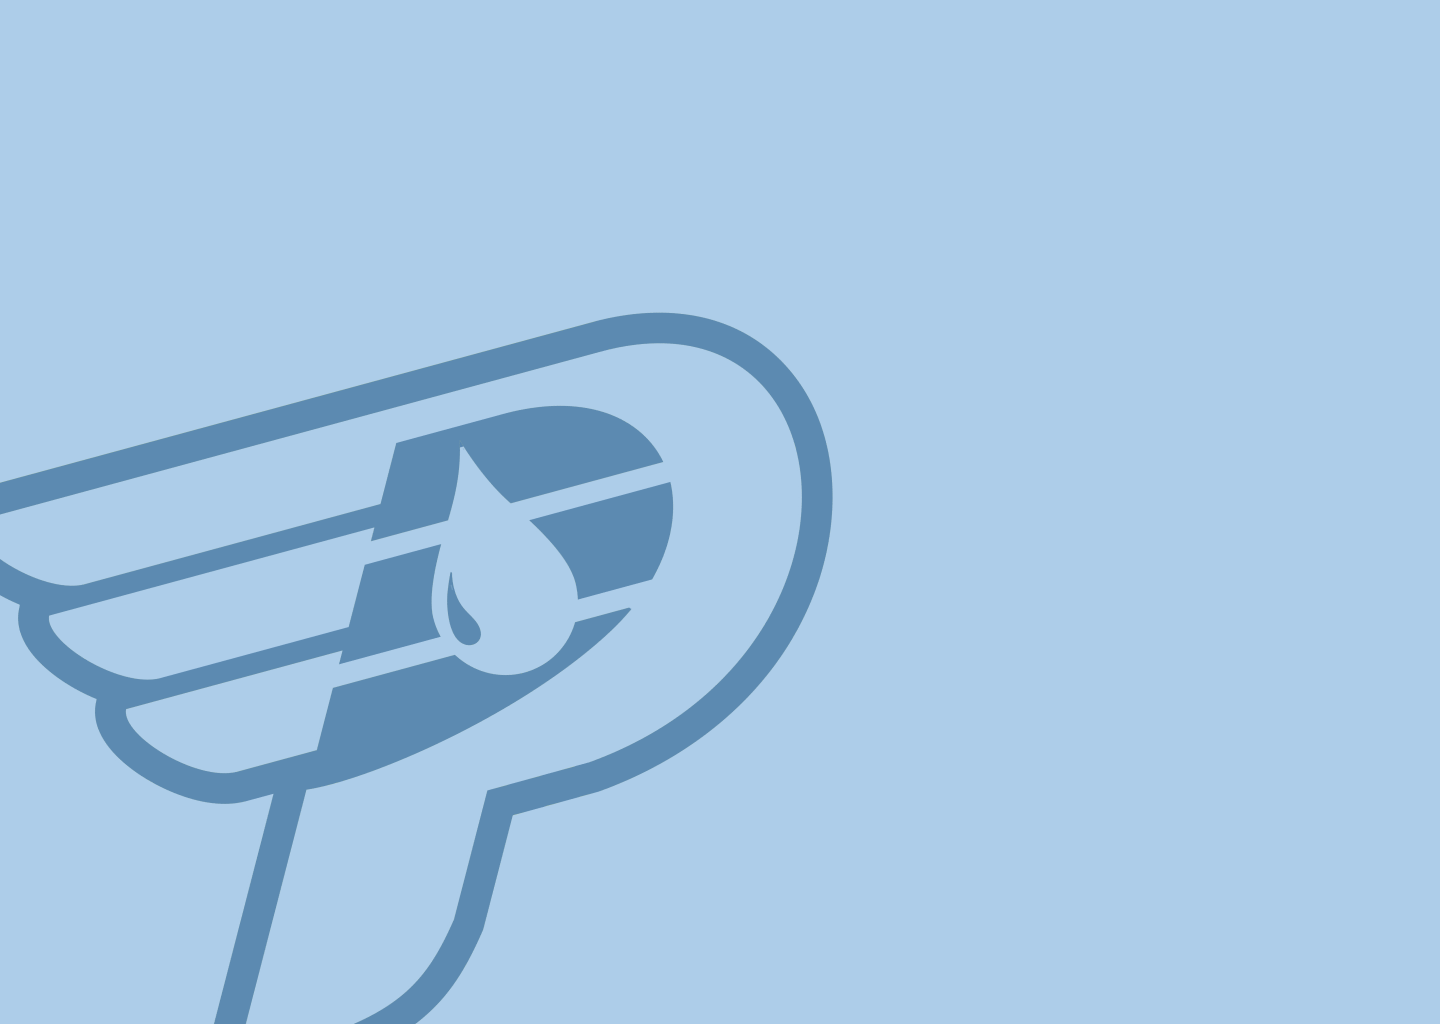
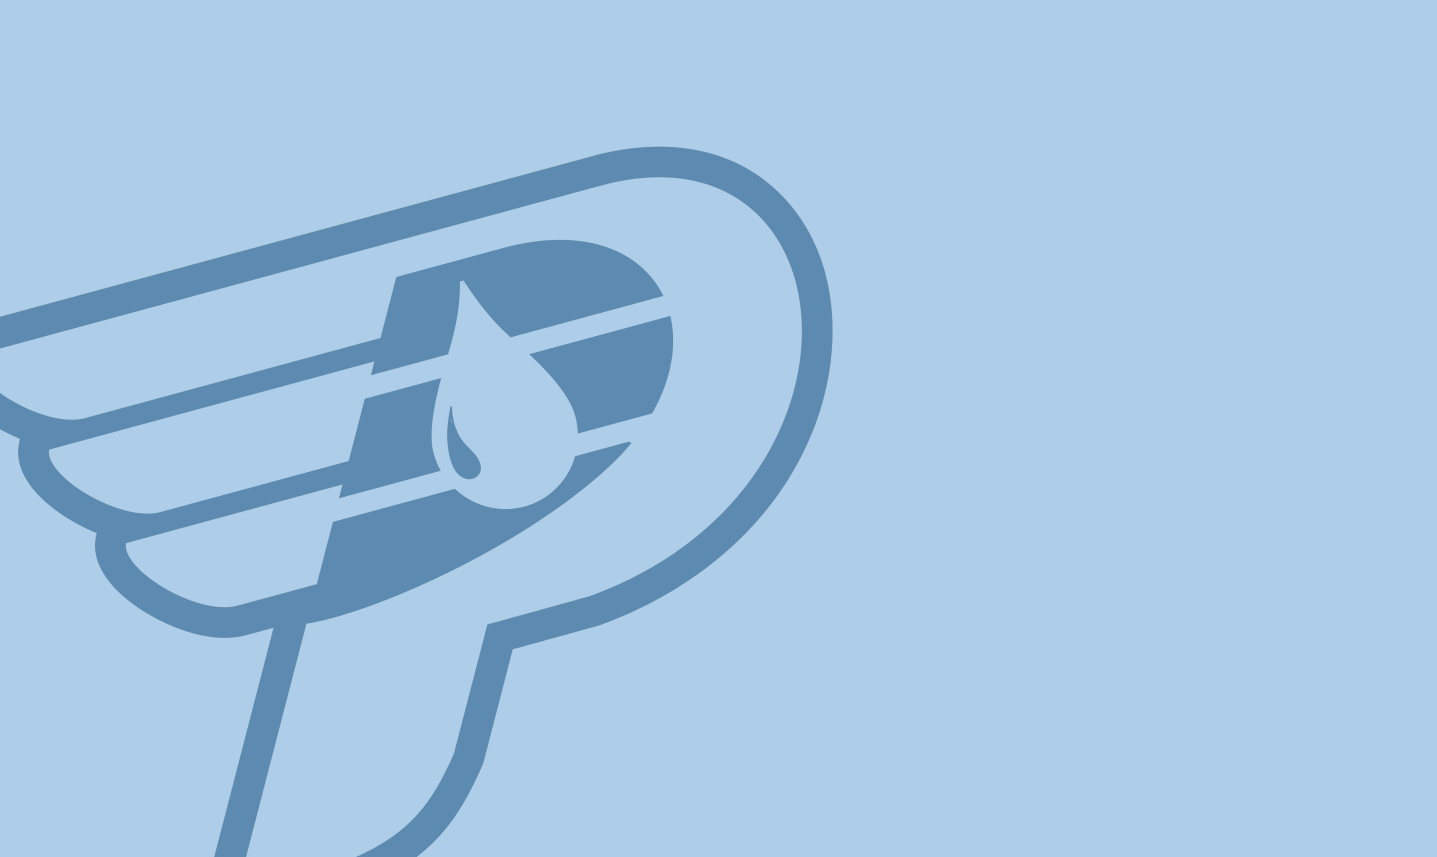
Fix design to be responsive

Changed region(s): [[0.0, 0.1517, 0.5818, 0.9708]]

diff --git a/public/css/style.css b/public/css/style.css
@@ -5,10 +5,21 @@
     --text-warning-color: #FFFF00 /*yellow*/
 }
 
-.bg-image {
+body, html {
+    width: 100%;
+    height: 100%;
+}
+
+.bg-log-reg {
     background-image: url("/assets/blue-blue-bg.png");
     background-size: cover;
-    background-repeat: no-repeat;
+    height: 100vh;
+}
+
+.bg-home {
+    background-color: var(--bg-secondary-color);
+    background-image: url("/assets/Home.png");
+    background-size: cover;
     height: 100vh;
 }
 
@@ -16,8 +27,7 @@ body {
     font-family: "Montserrat", sans-serif;
 }
 
-h1, button {
-    color: var(--bg-primary-color);
+.bungee-font {
     font-family: "Bungee", cursive;
 }
 
@@ -30,8 +40,7 @@ h1, button {
 }
 
 .btn-primary {
-    background-color: var(--bg-primary-color);
-    color: var(--text-warning-color) !important;
+    background-color: var(--bg-primary-color) !important;
 }
 
 .text-primary {
